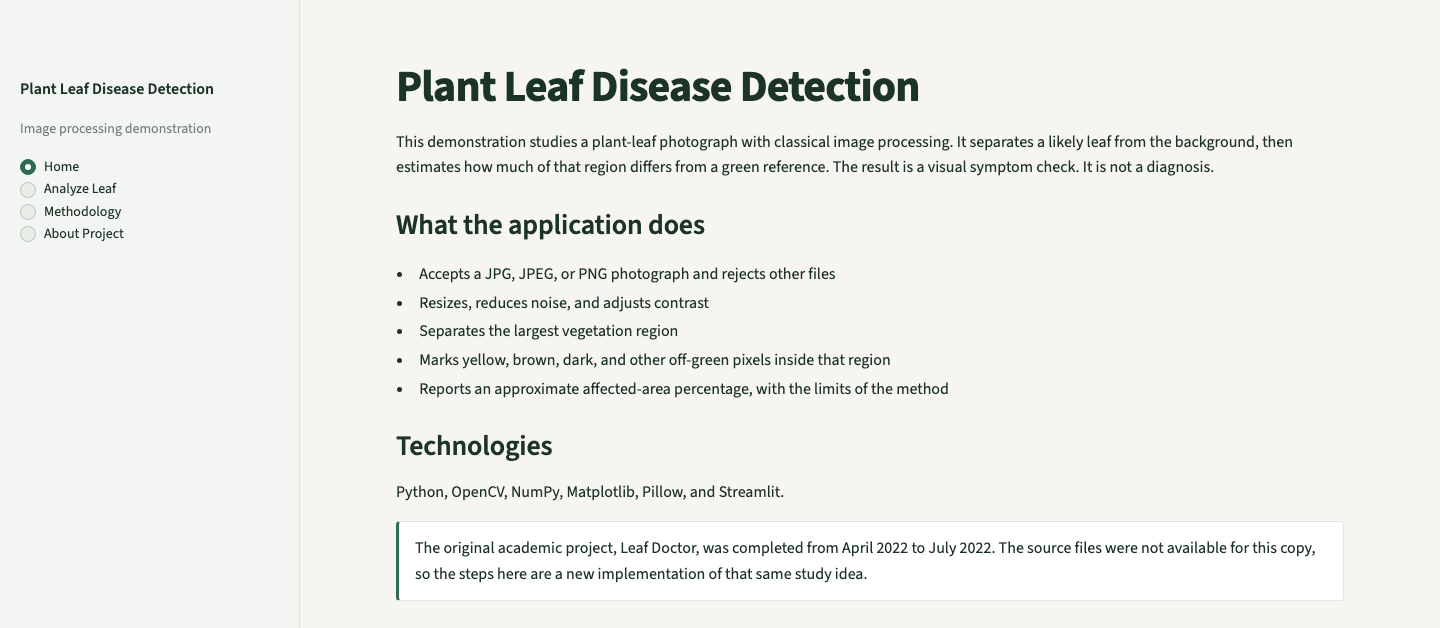
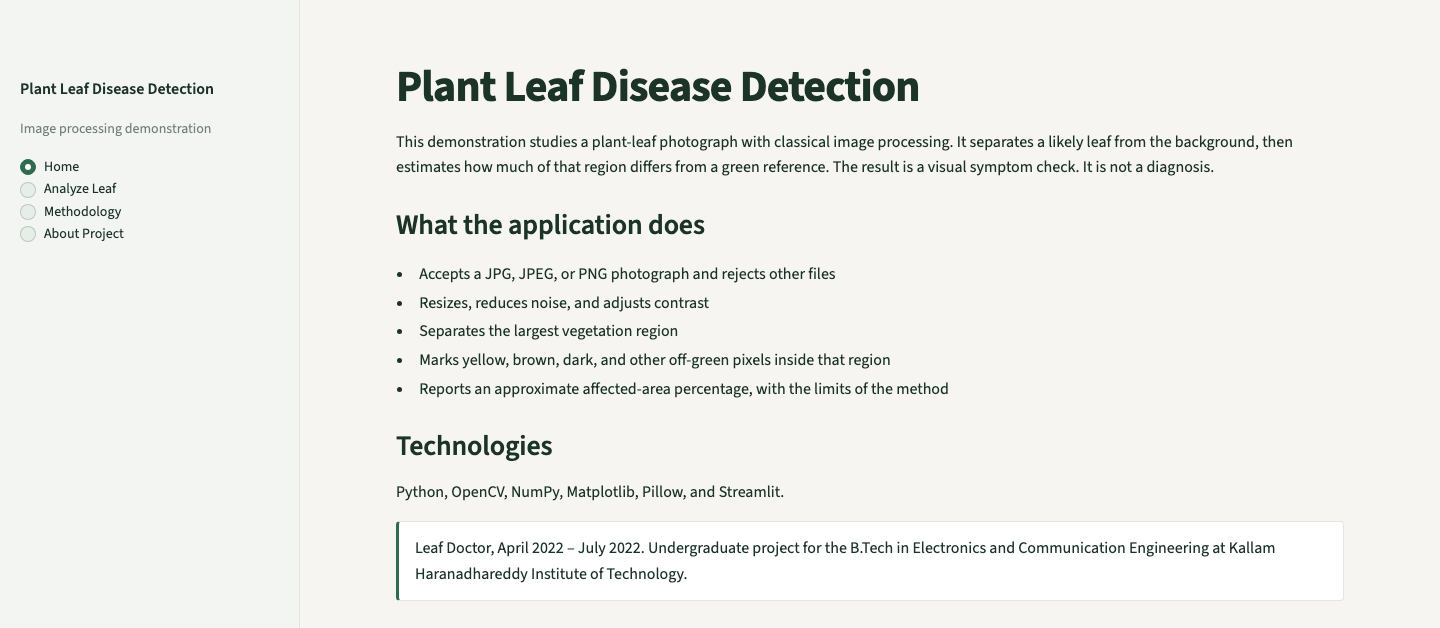
Describe the undergraduate leaf project in the README and app.

Changed region(s): [[0.2812, 0.8471, 0.9062, 0.9379]]

diff --git a/app.py b/app.py
@@ -196,9 +196,8 @@ def page_home() -> None:
     st.markdown(
         """
 <div class="note">
-The original academic project, Leaf Doctor, was completed from April 2022 to July 2022.
-The source files were not available for this copy, so the steps here are a new implementation
-of that same study idea.
+Leaf Doctor, April 2022 – July 2022. Undergraduate project for the B.Tech in Electronics
+and Communication Engineering at Kallam Haranadhareddy Institute of Technology.
 </div>
         """,
         unsafe_allow_html=True,
@@ -242,17 +241,9 @@ def page_about() -> None:
     st.subheader("Academic project")
     st.write(
         "Leaf Doctor was an undergraduate project for the B.Tech in Electronics and Communication "
-        "Engineering at Kallam Haranadhareddy Institute of Technology. The work ran from April 2022 "
-        "to July 2022. It used MATLAB, Python, and image processing to study plant-leaf photographs "
-        "for visible signs of disease."
-    )
-    st.subheader("This portfolio copy")
-    st.write(
-        "The original project files were not in the archive used to prepare this repository. "
-        "The Python application here is a later recreation of that academic idea. "
-        "It uses OpenCV for the image operations. It does not include the original MATLAB scripts, "
-        "and it does not add a machine-learning classifier. Nothing in the file dates should be read "
-        "as a claim that this code was written in 2022."
+        "Engineering at Kallam Haranadhareddy Institute of Technology, from April 2022 to July 2022. "
+        "It studies plant-leaf photographs with Python and OpenCV and reports visible discoloration. "
+        "It does not use a machine-learning classifier."
     )
     st.subheader("Limits")
     st.write(

diff --git a/src/pipeline.py b/src/pipeline.py
@@ -32,7 +32,7 @@ def analyze_bgr(image: np.ndarray) -> AnalysisResult:
     """Resize, denoise, find the leaf, and measure color on the resized original.
 
     Contrast adjustment is returned for display. It is not used for the area percentage,
-    so the percentage stays tied to the photograph rather than to the enhanced copy.
+    so the percentage stays tied to the photograph rather than to the enhanced image.
     """
     original = resize_max_side(image)
     denoised = denoise(original)

diff --git a/src/__init__.py b/src/__init__.py
@@ -1,1 +1,1 @@
-"""Image-processing steps for the plant-leaf portfolio demonstration."""
+"""Image-processing steps for plant-leaf photographs."""

diff --git a/README.md b/README.md
@@ -4,23 +4,15 @@ A small desktop demonstration that studies a plant-leaf photograph with classica
 
 ## Academic background
 
-The original project was called Leaf Doctor. It was completed from April 2022 to July 2022 for a B.Tech in Electronics and Communication Engineering at Kallam Haranadhareddy Institute of Technology. The work used MATLAB, Python, and image processing to look for visible signs of disease in leaf photographs.
-
-## This recreation
-
-The original source files were not in the archive used to prepare this copy. The application here is a later Python recreation of that academic idea. It was written after 2022. It does not contain the original MATLAB scripts, and the commit history of this repository, once it exists, records when this copy was written.
+Leaf Doctor was completed from April 2022 to July 2022 for a B.Tech in Electronics and Communication Engineering at Kallam Haranadhareddy Institute of Technology. It studies leaf photographs with image processing and reports visible signs of discoloration.
 
 ## Technology
 
-Verified in this project:
-
 - Python 3.12
-- OpenCV, NumPy, and Pillow for the image steps
-- Matplotlib for the color-share chart
-- Streamlit for the demonstration pages
-- pytest for the automated checks
-
-MATLAB is not part of this copy.
+- OpenCV, NumPy, and Pillow
+- Matplotlib
+- Streamlit
+- pytest
 
 ## Features
 
@@ -34,7 +26,7 @@ MATLAB is not part of this copy.
 
 ## Methodology
 
-Color shares are counted on the resized original. The leaf outline is taken from a denoised copy. Contrast adjustment is shown for inspection and is not used in the percentage.
+Color shares are counted on the resized photograph. The leaf outline is taken from the denoised image. Contrast adjustment is shown for inspection and is not used in the percentage.
 
 1. Check the file type, size, and that the image can be decoded.
 2. Shrink the longest side to 900 pixels when the photograph is larger.
@@ -48,15 +40,13 @@ The full parameter list is in [docs/methodology.md](docs/methodology.md).
 
 ## Installation
 
-The project folder may sit on an ExFAT drive. Create the virtual environment on the internal disk so Python can use symbolic links.
+Python 3.12 is required.
 
 ```bash
-/opt/homebrew/bin/python3.12 -m venv ~/.venvs/plant-leaf-disease-detection
-source ~/.venvs/plant-leaf-disease-detection/bin/activate
+python3.12 -m venv .venv
+source .venv/bin/activate
 pip install -r requirements.txt
 ```
-
-Python 3.12 is required. On macOS it can be installed with `brew install python@3.12`.
 
 ## Usage
 
@@ -89,7 +79,7 @@ The disease names in the sample filenames come from the photographers' captions.
 pytest
 ```
 
-The tests cover file checks, resizing, noise reduction, leaf segmentation, the affected-area total, a gray frame with no leaf, and soft or dark photographs. They also run the four sample photographs through the pipeline. Sixteen tests passed on Python 3.12.16 when this copy was prepared. There is no classifier and no accuracy percentage.
+The tests cover file checks, resizing, noise reduction, leaf segmentation, the affected-area total, a gray frame with no leaf, and soft or dark photographs. They also run the four sample photographs through the pipeline. There is no classifier and no accuracy percentage.
 
 ## Limitations
 
@@ -97,7 +87,7 @@ The tests cover file checks, resizing, noise reduction, leaf segmentation, the a
 - Veins, shadows, holes, dust, and leaves that are naturally red or purple can raise it.
 - Small specks on a plain background are the case this spot rule is aimed at. A broad, even patch can be missed.
 - Several leaves, a garden background, blur, or poor light make the outline less reliable.
-- No labeled test set from the 2022 project was available, so no detection accuracy is reported.
+- The method does not use a trained classifier, so no detection accuracy is reported.
 
 ## Dataset and attribution
 
@@ -125,5 +115,3 @@ The source code does not have a license yet. Each sample photograph keeps the li
 ## Repository
 
 https://github.com/janibasha1024-coder/plant-leaf-disease-detection
-
-The commit that added this recreation is dated when the copy was written. That date is not 2022.

diff --git a/LINKEDIN_PROJECT.md b/LINKEDIN_PROJECT.md
@@ -8,9 +8,7 @@
 
 ## Project description
 
-This repository is the source code only. It is not the original final project report, slides, or submitted files.
-
-The work studied plant-leaf photographs with image processing, from April 2022 to July 2022. The public copy is a later Python and OpenCV version of that study. It resizes a photograph, reduces noise, separates the main green region, and estimates how much of that region differs from a green reference. The result is a visual check. It does not name a disease and it does not report an accuracy figure.
+Plant Leaf Disease Detection Using Image Processing was my undergraduate project, completed from April 2022 to July 2022 for a B.Tech in Electronics and Communication Engineering at Kallam Haranadhareddy Institute of Technology. The program studies a leaf photograph with image processing. It resizes the image, reduces noise, separates the leaf from the background, and estimates how much of that region differs from a green reference. The result is a visual check of the photograph. It does not name a disease and it does not report an accuracy figure.
 
 ## Skills
 
@@ -30,14 +28,14 @@ Upload these files from `docs/screenshots/` in this order:
 4. `leaf-segmentation.png`
 5. `analysis-results.png`
 
-Use `linkedin-cover.png` if LinkedIn asks for one wide image. The cover states that this is source code only, not the original final project.
+Use `linkedin-cover.png` if LinkedIn asks for one wide image.
 
 ## Adding it on LinkedIn
 
 1. Open your profile and choose **Add profile section**, then **Projects**, then **Add project**.
 2. Use the project title above.
 3. Set the dates to April 2022 – July 2022.
-4. Paste the project description from this file. Leave out school names, personal names, and photographer names.
+4. Paste the project description from this file.
 5. Add the five skills listed above.
 6. Add the GitHub link above.
 7. Upload the five screenshots in the order above.

diff --git a/docs/methodology.md b/docs/methodology.md
@@ -10,7 +10,7 @@ The file extension must be `.jpg`, `.jpeg`, or `.png`. The file must be 8 MB or 
 
 ## 2. Resize
 
-If the longest side is above 900 pixels, the photograph is scaled down with area interpolation. Smaller photographs are left at their original size. Later steps use this resized copy.
+If the longest side is above 900 pixels, the photograph is scaled down with area interpolation. Smaller photographs are left at their original size. Later steps use this resized image.
 
 ## 3. Noise reduction
 
@@ -49,4 +49,4 @@ Sharpness is the variance of the Laplacian on the resized original. Values below
 
 ## What the percentage is not
 
-The percentage is a color comparison. It is not a lesion count, not a species identification, and not a disease diagnosis. Veins, shadows, holes, and naturally red or purple leaves can raise it. Faint spots can be missed. No accuracy figure is reported because this recreation does not include a labeled test set or a classifier from the 2022 project.
+The percentage is a color comparison. It is not a lesion count, not a species identification, and not a disease diagnosis. Veins, shadows, holes, and naturally red or purple leaves can raise it. Faint spots can be missed. No accuracy figure is reported because the method does not use a trained classifier.
